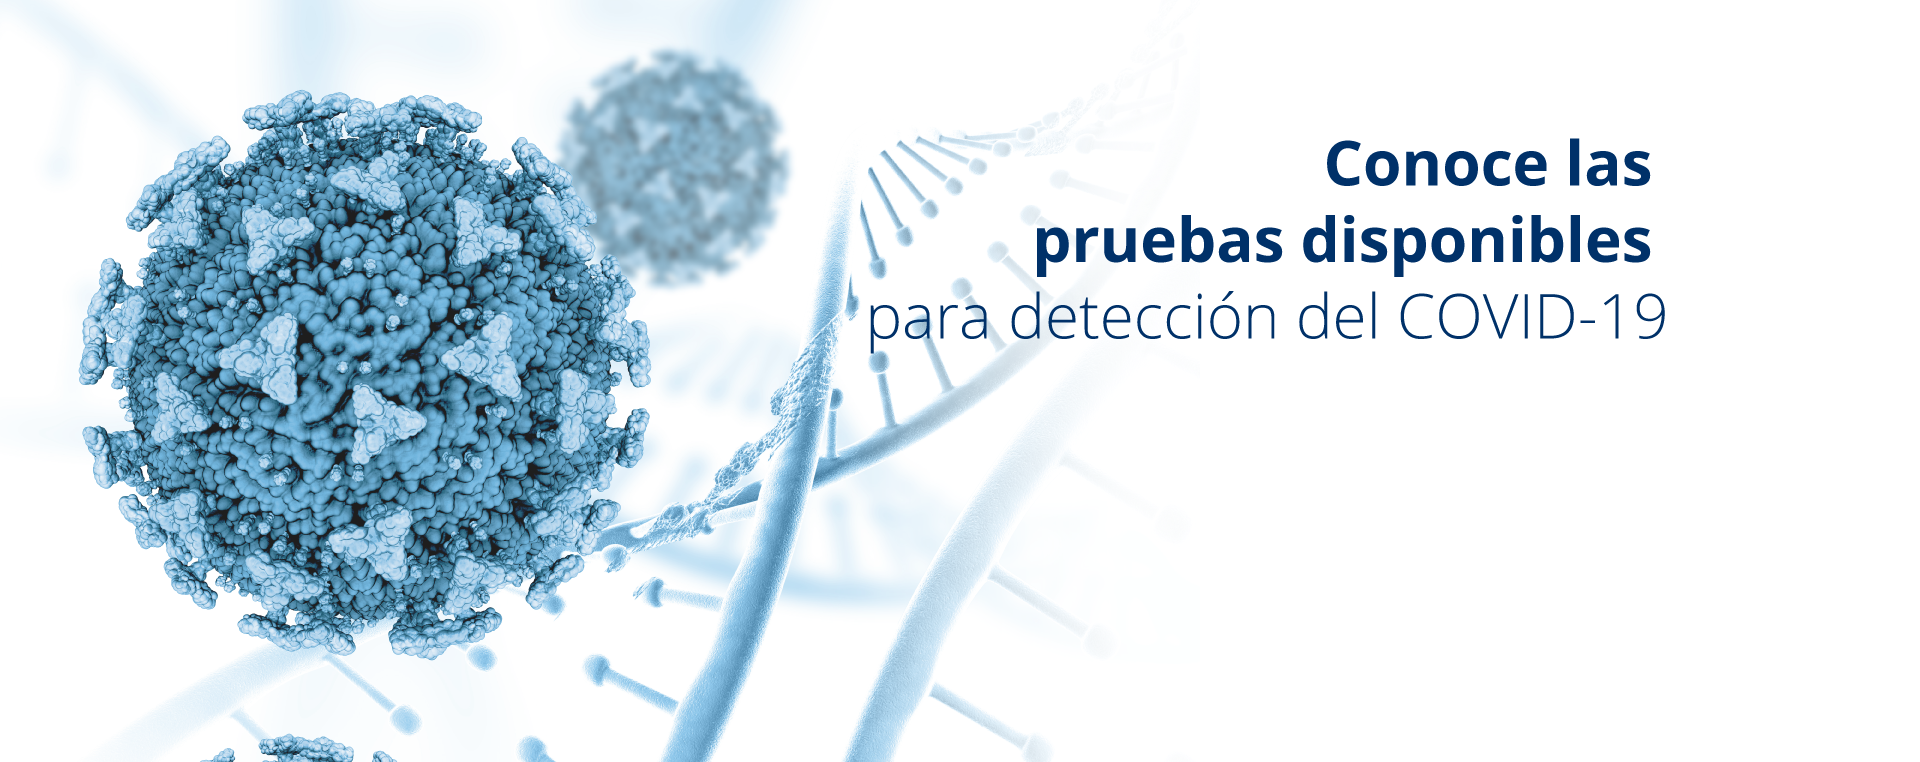
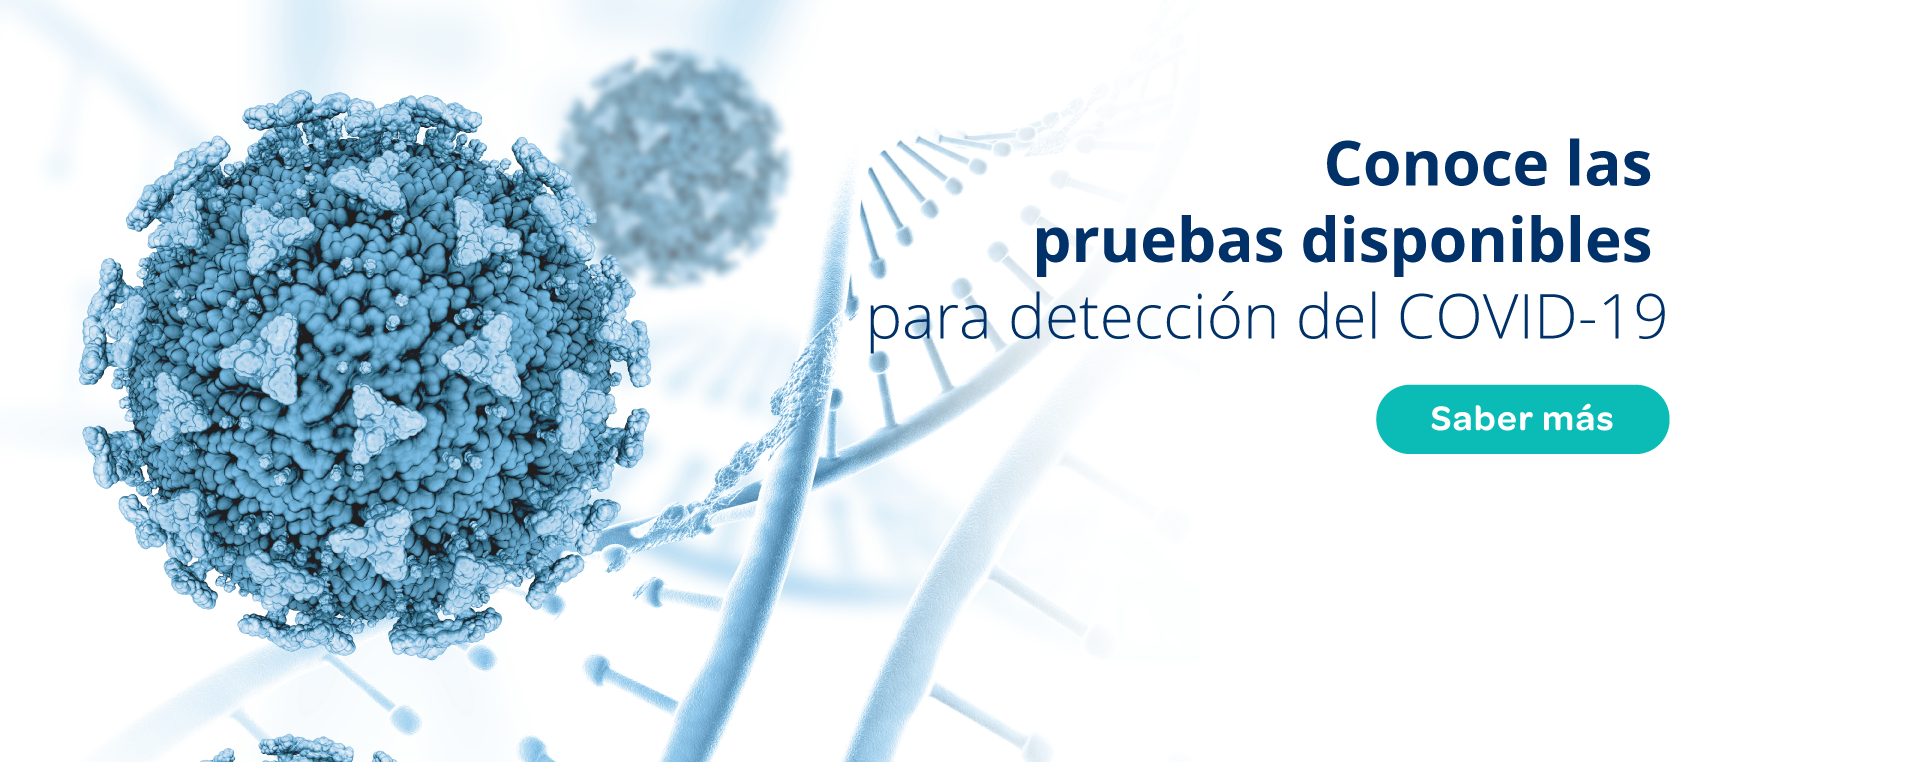
cambiando imagen

Changed region(s): [[0.7188, 0.4829, 0.875, 0.6037]]

diff --git a/app/Views/body/index.php b/app/Views/body/index.php
@@ -134,7 +134,7 @@ foreach ($list_employe as $datas) {
 
 				<?php } ?>-->
 
-        <div class="slide">
+        <div class="slide"><a href="#paquetes_preventivos_view">
 					<div class="img--holder" data-bg="<?= esc(base_url('public/assets/images/content/slider/slider-anticuerpos.png'));?>"></div>
 					<div class="slide-content center">
 						<div class="vert-wrap container">
@@ -154,9 +154,9 @@ foreach ($list_employe as $datas) {
 								</div>
 							</div>
 						</div>
-					</div>
+					</div></a>
 				</div>
-        <div class="slide">
+        <div class="slide"><a href="#paquetes_preventivos_view">
 					<div class="img--holder" data-bg="<?= esc(base_url('public/assets/images/content/slider/slider-9.png'));?>"></div>
 					<div class="slide-content center">
 						<div class="vert-wrap container">
@@ -176,9 +176,9 @@ foreach ($list_employe as $datas) {
 								</div>
 							</div>
 						</div>
-					</div>
+					</div></a>
 				</div>
-        <div class="slide">
+        <div class="slide"><a href="#paquetes_preventivos_view">
 					<div class="img--holder" data-bg="<?= esc(base_url('public/assets/images/content/slider/slider-8.png'));?>"></div>
 					<div class="slide-content center">
 						<div class="vert-wrap container">
@@ -198,7 +198,7 @@ foreach ($list_employe as $datas) {
 								</div>
 							</div>
 						</div>
-					</div>
+					</div></a>
 				</div>
 			</div>
 		</div>
